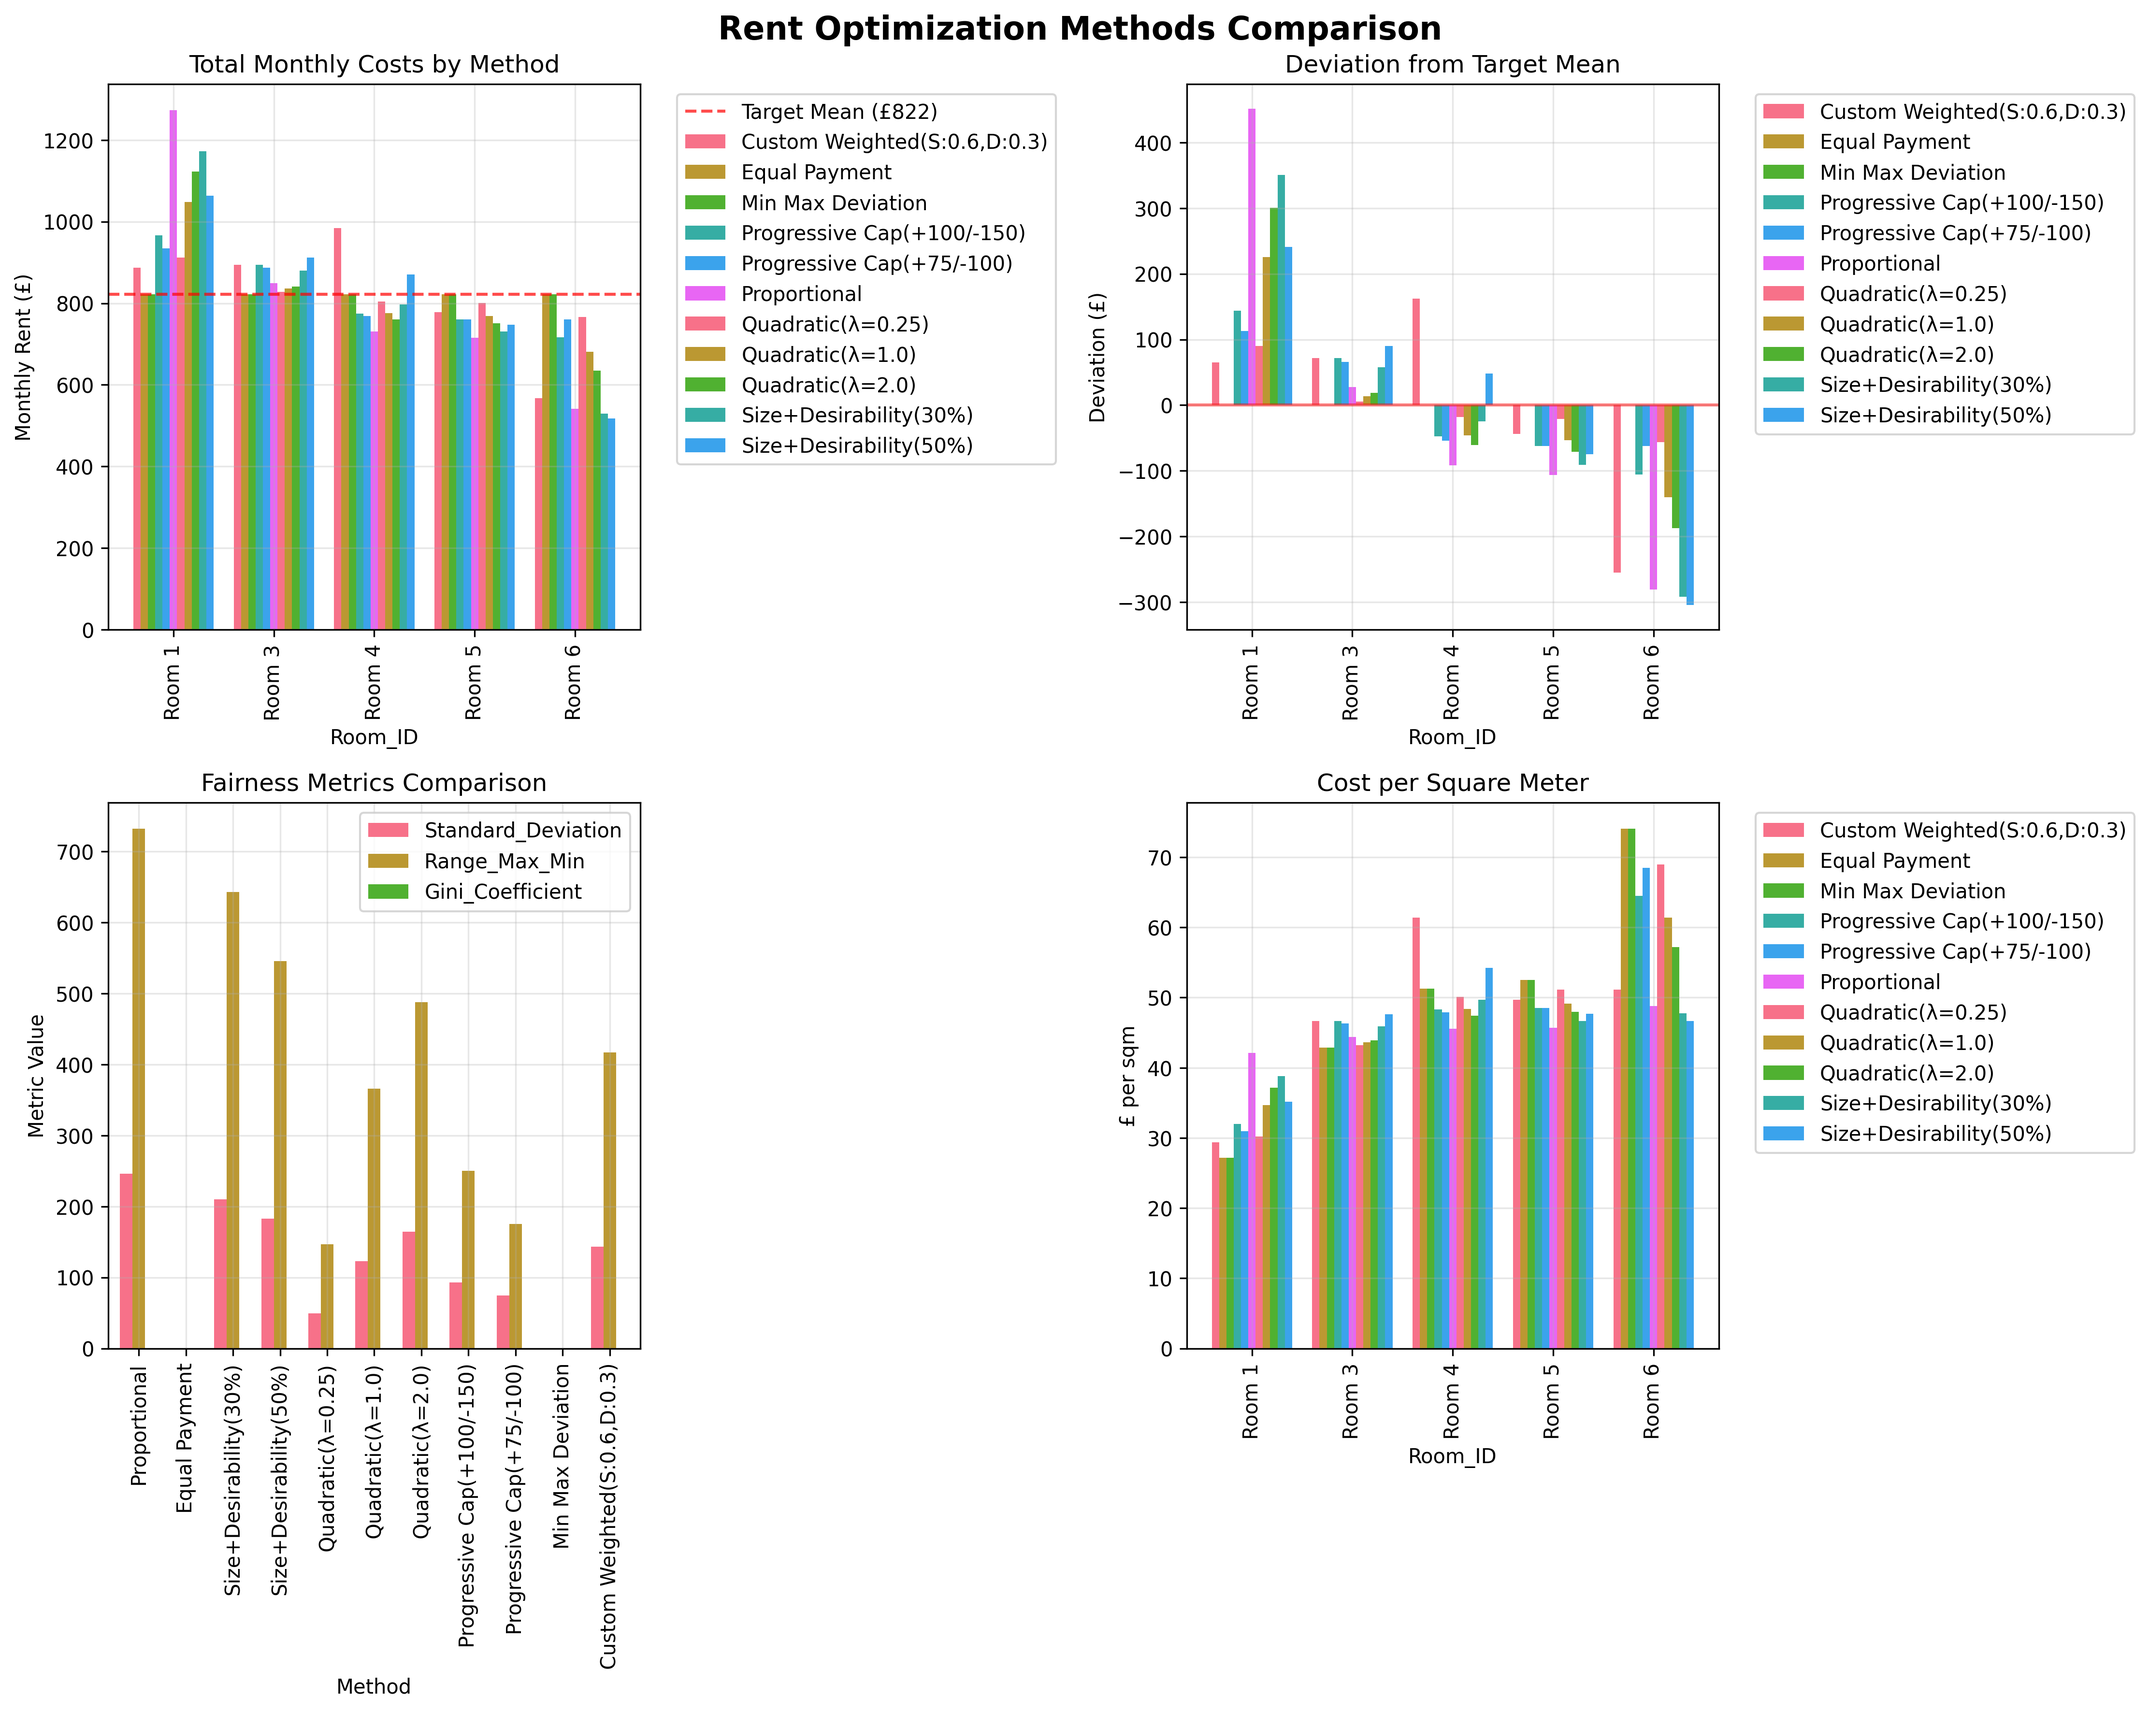
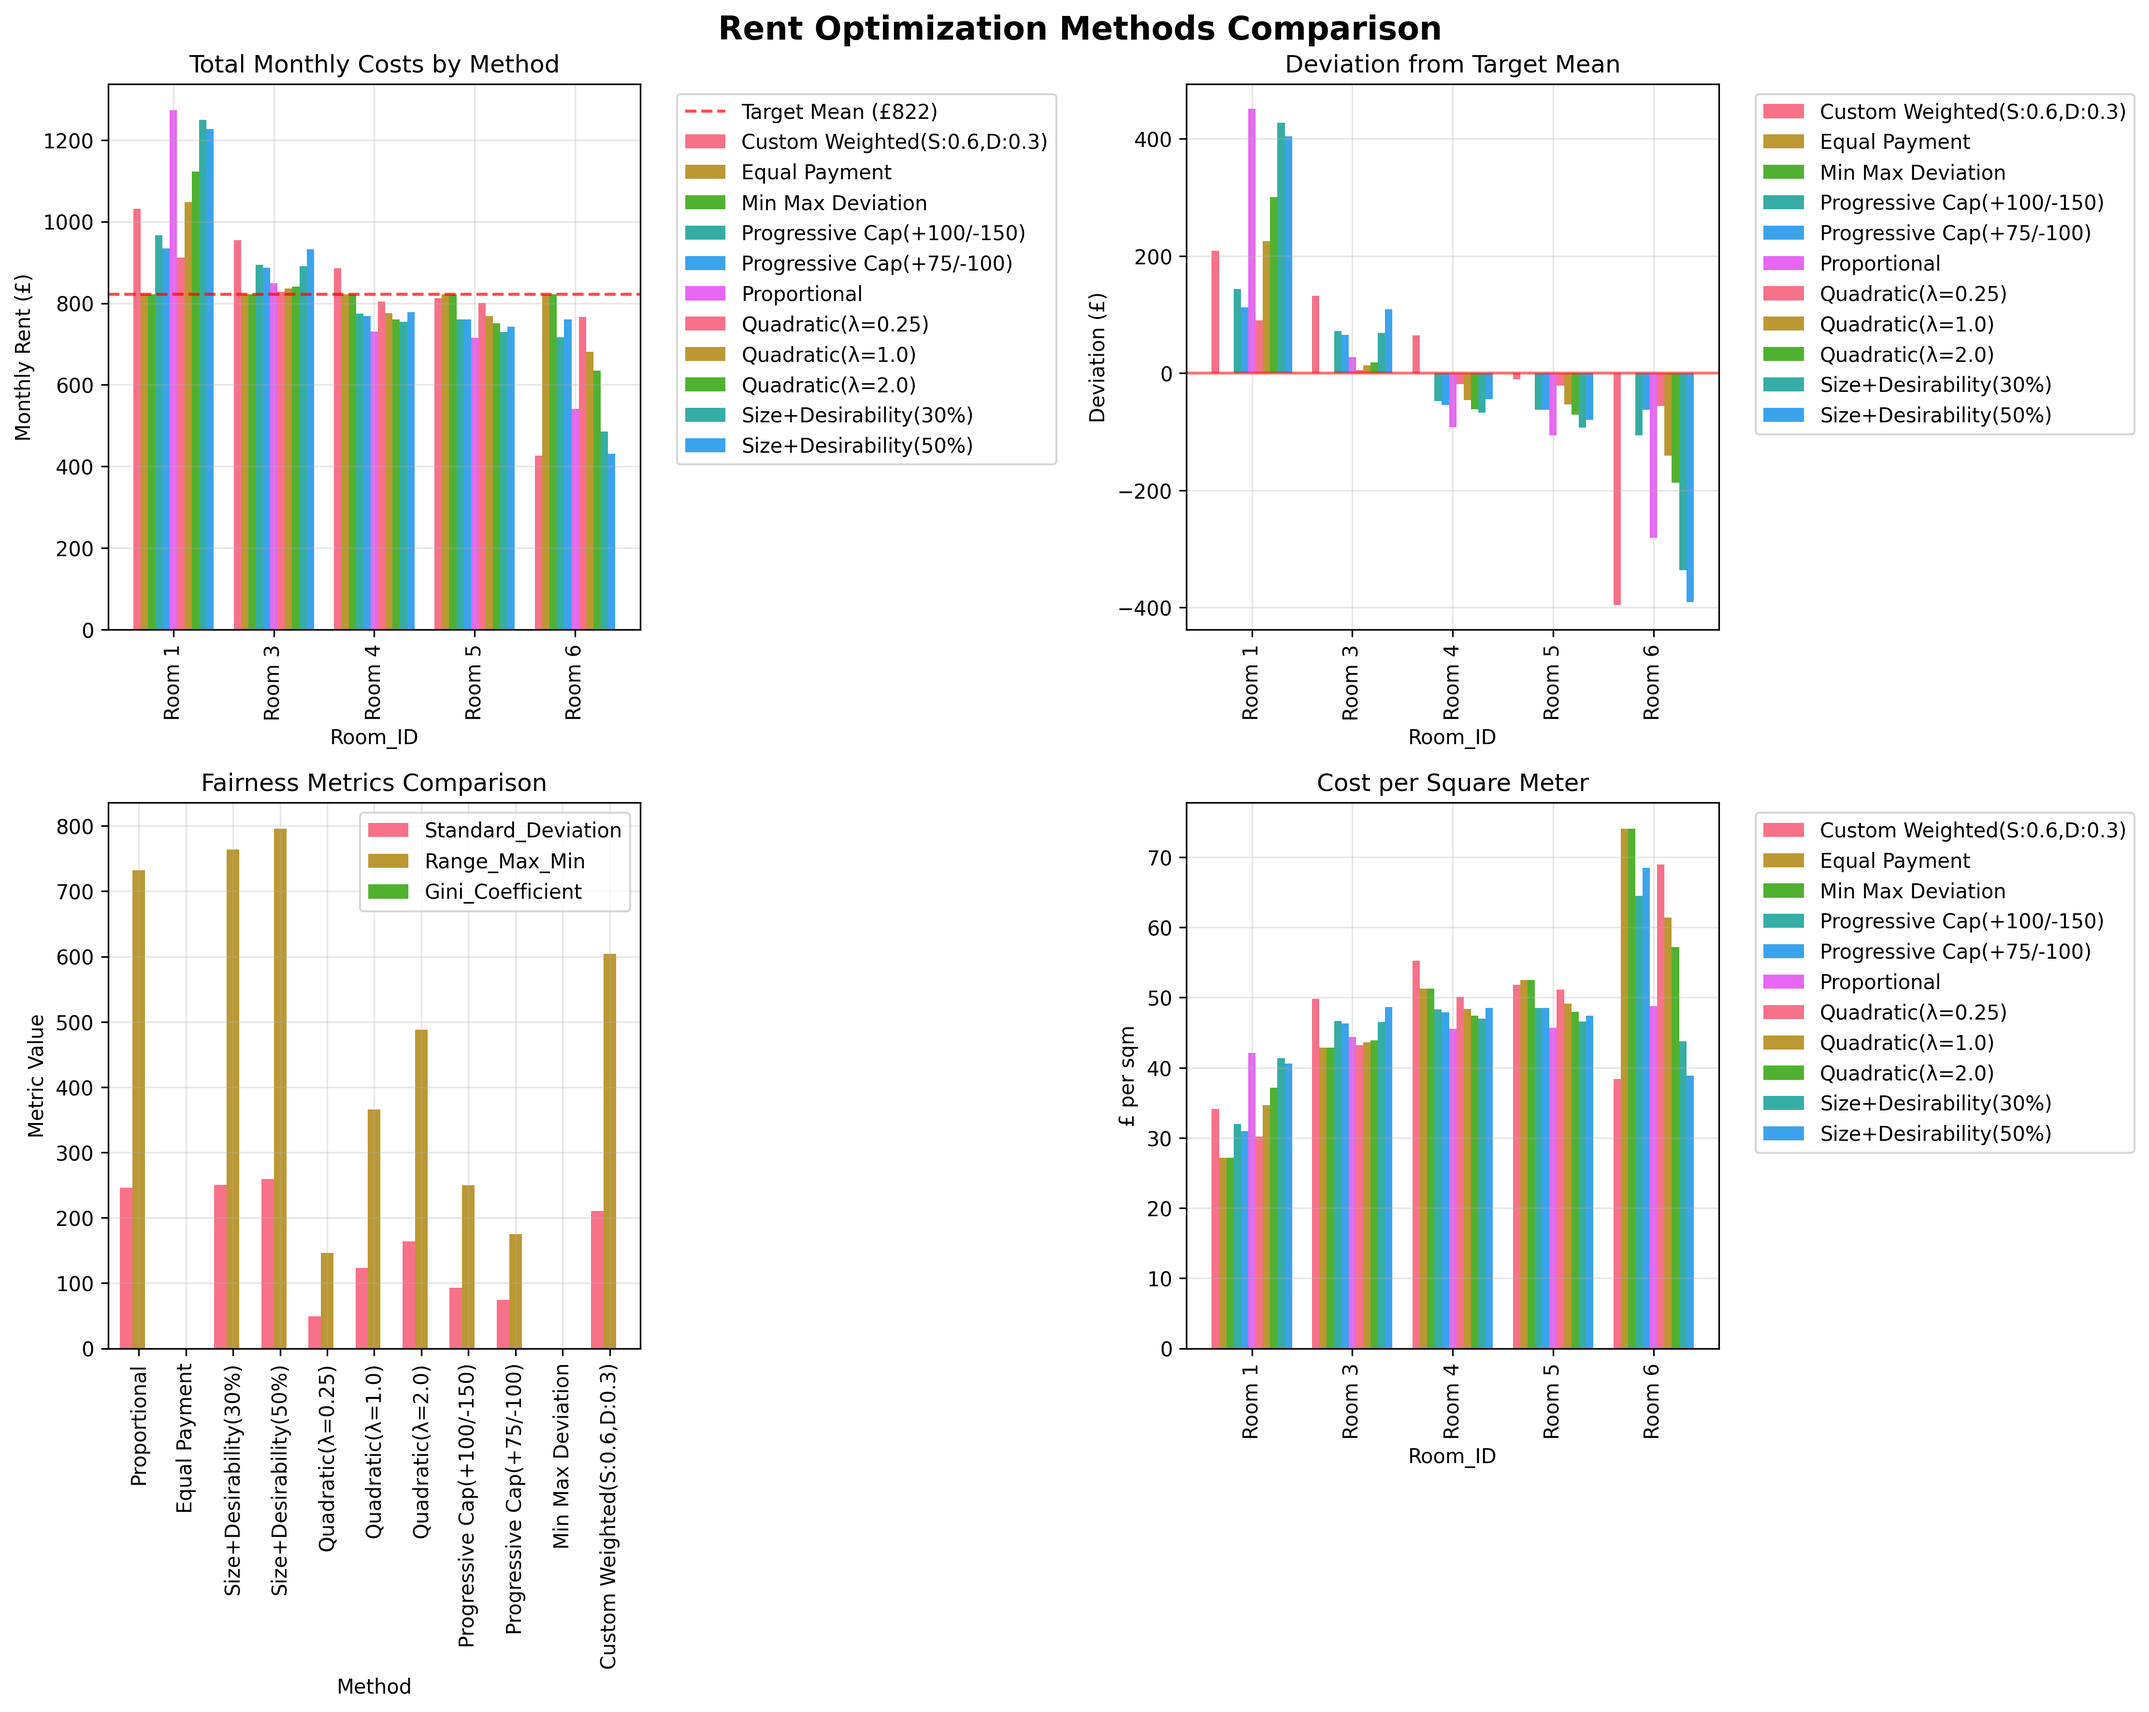
Making Streamlit
Done with most of the code, now moving onto making this a streamlit app

diff --git a/rent_optimiser/house.py b/rent_optimiser/house.py
@@ -19,7 +19,7 @@ class Room:
         Args:
             room_id: Unique identifier for the room (e.g., "Room 1")
             size: Size of the room in square meters
-            desirability_score: Overall desirability score (0-10), calculated if None
+            desirability_score: Overall desirability score (0-5), calculated if None
             is_shared: Whether this room is shared among all housemates
         """
         self.room_id = room_id
@@ -34,99 +34,63 @@ class Room:
         self.shared_cost_portion = 0.0
         self.total_cost = 0.0
     
-    def calculate_desirability_factors(self, pub_proximity: str = 'medium') -> Dict[str, float]:
+    def calculate_desirability_factors(self) -> Dict[str, float]:
         """
         Calculate desirability factors for this room based on size, noise, kitchen and bathroom access.
         
-        Args:
-            pub_proximity: Ignored (kept for backward compatibility)
-            
         Returns:
             Dictionary of factor scores (out of 5)
         """
-        # Floor Level Score (higher = better for most people)
-        floor_scores = {
-            'Room 1': 3,  # Basement/Ground floor - less desirable
-            'Room 2': 7,  # 1st floor - convenient to kitchen
-            'Room 3': 8,  # 2nd floor - good height
-            'Room 4': 9,  # 2nd floor with balcony - very desirable
-            'Room 5': 6,  # 3rd floor - lots of stairs
-            'Room 6': 5   # 3rd floor - lots of stairs, smaller
+        # Size Score (1-5 scale)
+        size_scores = {
+            'Room 1': 5,  # Largest room by far
+            'Room 3': 4,  # Second largest
+            'Room 4': 3,  # Medium size
+            'Room 5': 3,  # Medium-small
+            'Room 6': 2.5   # Smallest room
         }
         
-        # Natural Light Score
-        light_scores = {
-            'Room 1': 4,  # Basement - limited natural light
-            'Room 2': 6,  # Ground level windows
-            'Room 3': 7,  # Good windows on 2nd floor
-            'Room 4': 10, # Balcony + large windows - excellent light
-            'Room 5': 8,  # Top floor - good light
-            'Room 6': 7   # Top floor but smaller windows
+        # Noise Level Score (1-5 scale, higher = quieter)
+        noise_scores = {
+            'Room 1': 2,  # Basement close to street
+            'Room 3': 4,  # 2nd floor, away from pub
+            'Room 4': 5,  # Balcony side, furthest from pub
+            'Room 5': 5,  # Top floor, furthest from pub
+            'Room 6': 5   # Top floor, away from pub
         }
         
-        # Noise Level (pub closes midnight, garden 10pm)
-        noise_penalties = {'close': -3, 'medium': -1, 'far': 0}
-        
-        # Privacy Score
-        privacy_scores = {
-            'Room 1': 9,  # Basement - very private
-            'Room 2': 4,  # Same floor as kitchen - less private
-            'Room 3': 7,  # Separate floor from kitchen
-            'Room 4': 8,  # Good separation + balcony
-            'Room 5': 8,  # Top floor - private
-            'Room 6': 7   # Top floor but near Room 5
+        # Kitchen Convenience Score (1-5 scale)
+        kitchen_scores = {
+            'Room 1': 4,  # Basement, but one floor
+            'Room 3': 4,  # One floor up, reasonable
+            'Room 4': 4,  # One floor up from kitchen
+            'Room 5': 3,  # Two floors up, lots of stairs
+            'Room 6': 3,   # Furthest from kitchen, most stairs
         }
         
-        # Convenience Score
-        convenience_scores = {
-            'Room 1': 3,  # Basement - far from kitchen, stairs
-            'Room 2': 10, # Same floor as kitchen - very convenient
-            'Room 3': 6,  # One floor up from kitchen
-            'Room 4': 6,  # One floor up from kitchen
-            'Room 5': 4,  # Two floors up - lots of stairs
-            'Room 6': 4   # Two floors up - lots of stairs
-        }
-        
-        # Special Features
-        special_features = {
-            'Room 1': 2,  # Basement ceiling, less desirable
-            'Room 2': 5,  # Standard room
-            'Room 3': 6,  # Standard room, good size
-            'Room 4': 7,  # Adjacent to communal balcony
-            'Room 5': 7,  # Top floor views
-            'Room 6': 4   # Smaller, but top floor
-        }
-        
-        # Balcony Access
-        balcony_access = {
-            'Room 1': 3,  # Basement - furthest from communal balcony
-            'Room 2': 4,  # Different floor from balcony
-            'Room 3': 6,  # Same floor as balcony but not adjacent
-            'Room 4': 9,  # Adjacent to communal balcony
-            'Room 5': 4,  # Different floor from balcony
-            'Room 6': 4   # Different floor from balcony
+        # Bathroom Convenience Score (1-5 scale)
+        bathroom_scores = {
+            'Room 1': 3,  # Own bathroom - no sharing/waiting, but basement location
+            'Room 3': 5,  # Main floor bathroom, most convenient location
+            'Room 4': 5,  # Main floor bathroom, most convenient location
+            'Room 5': 5,  # Top floor - less convenient when in main house areas
+            'Room 6': 5   # Top floor - less convenient when in main house areas
         }
         
         # Calculate individual factors
         factors = {
-            'floor_level': floor_scores.get(self.room_id, 5),
-            'natural_light': light_scores.get(self.room_id, 5),
-            'noise_level': 5 + noise_penalties.get(pub_proximity, -1),
-            'privacy': privacy_scores.get(self.room_id, 5),
-            'convenience': convenience_scores.get(self.room_id, 5),
-            'special_features': special_features.get(self.room_id, 5),
-            'balcony_access': balcony_access.get(self.room_id, 5)
+            'size': size_scores.get(self.room_id, 3),
+            'noise': noise_scores.get(self.room_id, 3),
+            'kitchen_convenience': kitchen_scores.get(self.room_id, 3),
+            'bathroom_convenience': bathroom_scores.get(self.room_id, 3)
         }
         
         # Calculate overall desirability score (weighted average)
         weights = {
-            'floor_level': 0.15,
-            'natural_light': 0.18,
-            'noise_level': 0.20,
-            'privacy': 0.15,
-            'convenience': 0.15,
-            'special_features': 0.12,
-            'balcony_access': 0.05
+            'size': 0.45,
+            'noise': 0.35,
+            'kitchen_convenience': 0.1,
+            'bathroom_convenience': 0.1
         }
         
         overall_score = sum(factors[factor] * weight for factor, weight in weights.items())
@@ -305,7 +269,7 @@ class House:
         for room in self.individual_rooms:
             desirability = room.desirability_score or 'N/A'
             print(f"{room.room_id}: {room.size} sqm")
-            print(f"  Desirability: {desirability}")
+            print(f"  Desirability: {desirability}/5")
             print(f"  Individual cost: £{room.individual_cost:.2f}")
             print(f"  Total cost: £{room.total_cost:.2f}")
     
@@ -318,21 +282,20 @@ class House:
             if not room.desirability_factors:
                 continue
                 
-            print(f"\n📍 {room.room_id} ({room.size} sqm) - Overall: {room.desirability_score}/10")
+            print(f"\n📍 {room.room_id} ({room.size} sqm) - Overall: {room.desirability_score}/5")
             print("-" * 50)
             
             factor_descriptions = {
-                'floor_level': 'Floor Level',
-                'natural_light': 'Natural Light',
-                'noise_level': 'Noise Level',
-                'kitchen_convenience': 'Kitchen Access',
-                'bathroom_convenience': 'Bathroom Access'
+                'size': 'Room Size',
+                'noise': 'Noise Level (Higher = Quieter)',
+                'kitchen_convenience': 'Kitchen Convenience',
+                'bathroom_convenience': 'Bathroom Convenience'
             }
             
             for factor, score in room.desirability_factors.items():
                 if factor != 'overall_desirability':
                     description = factor_descriptions.get(factor, factor)
-                    print(f"  {description:<25}: {score}/10")
+                    print(f"  {description:<30}: {score}/5")
     
     @classmethod
     def create_from_data(cls, 
